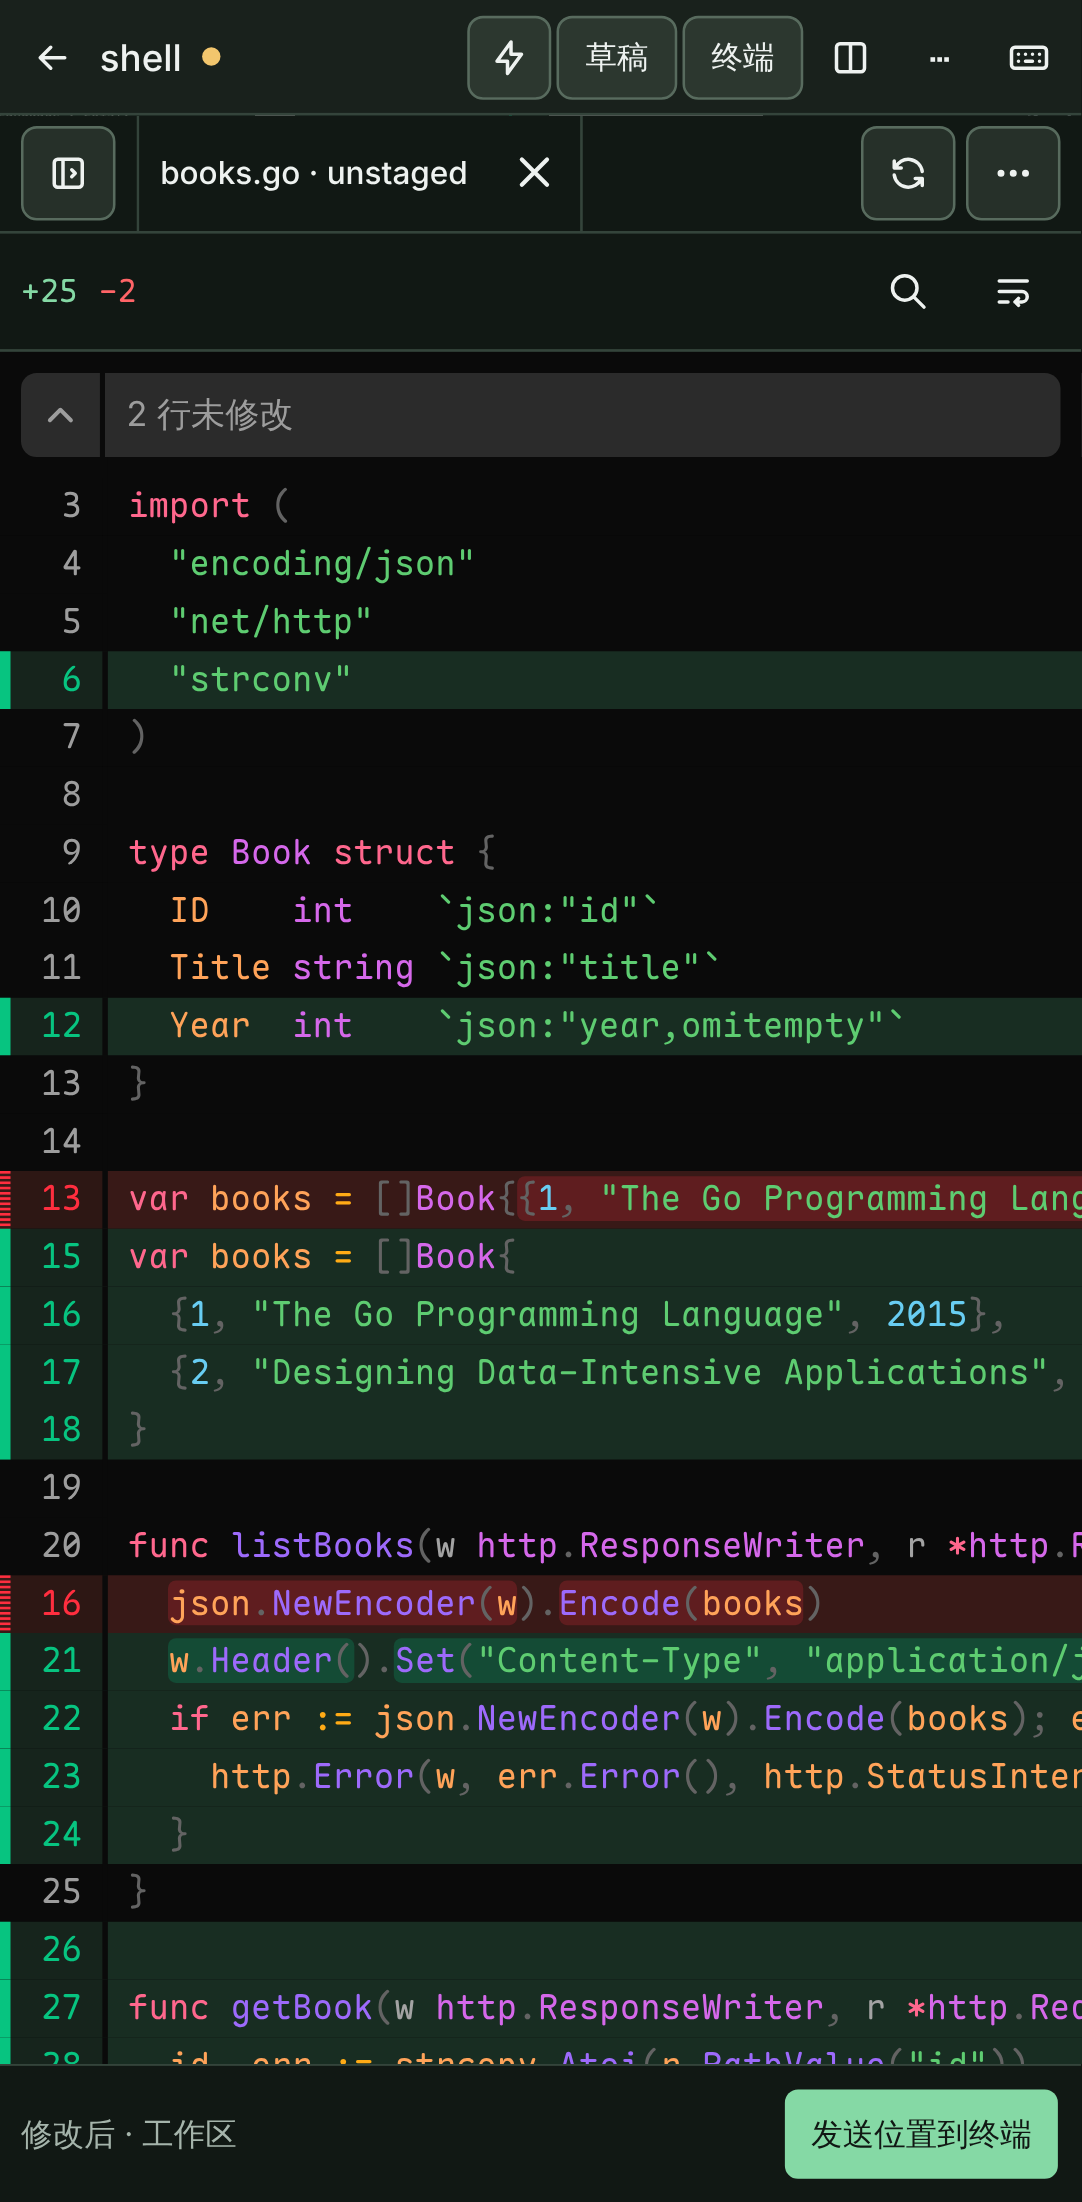
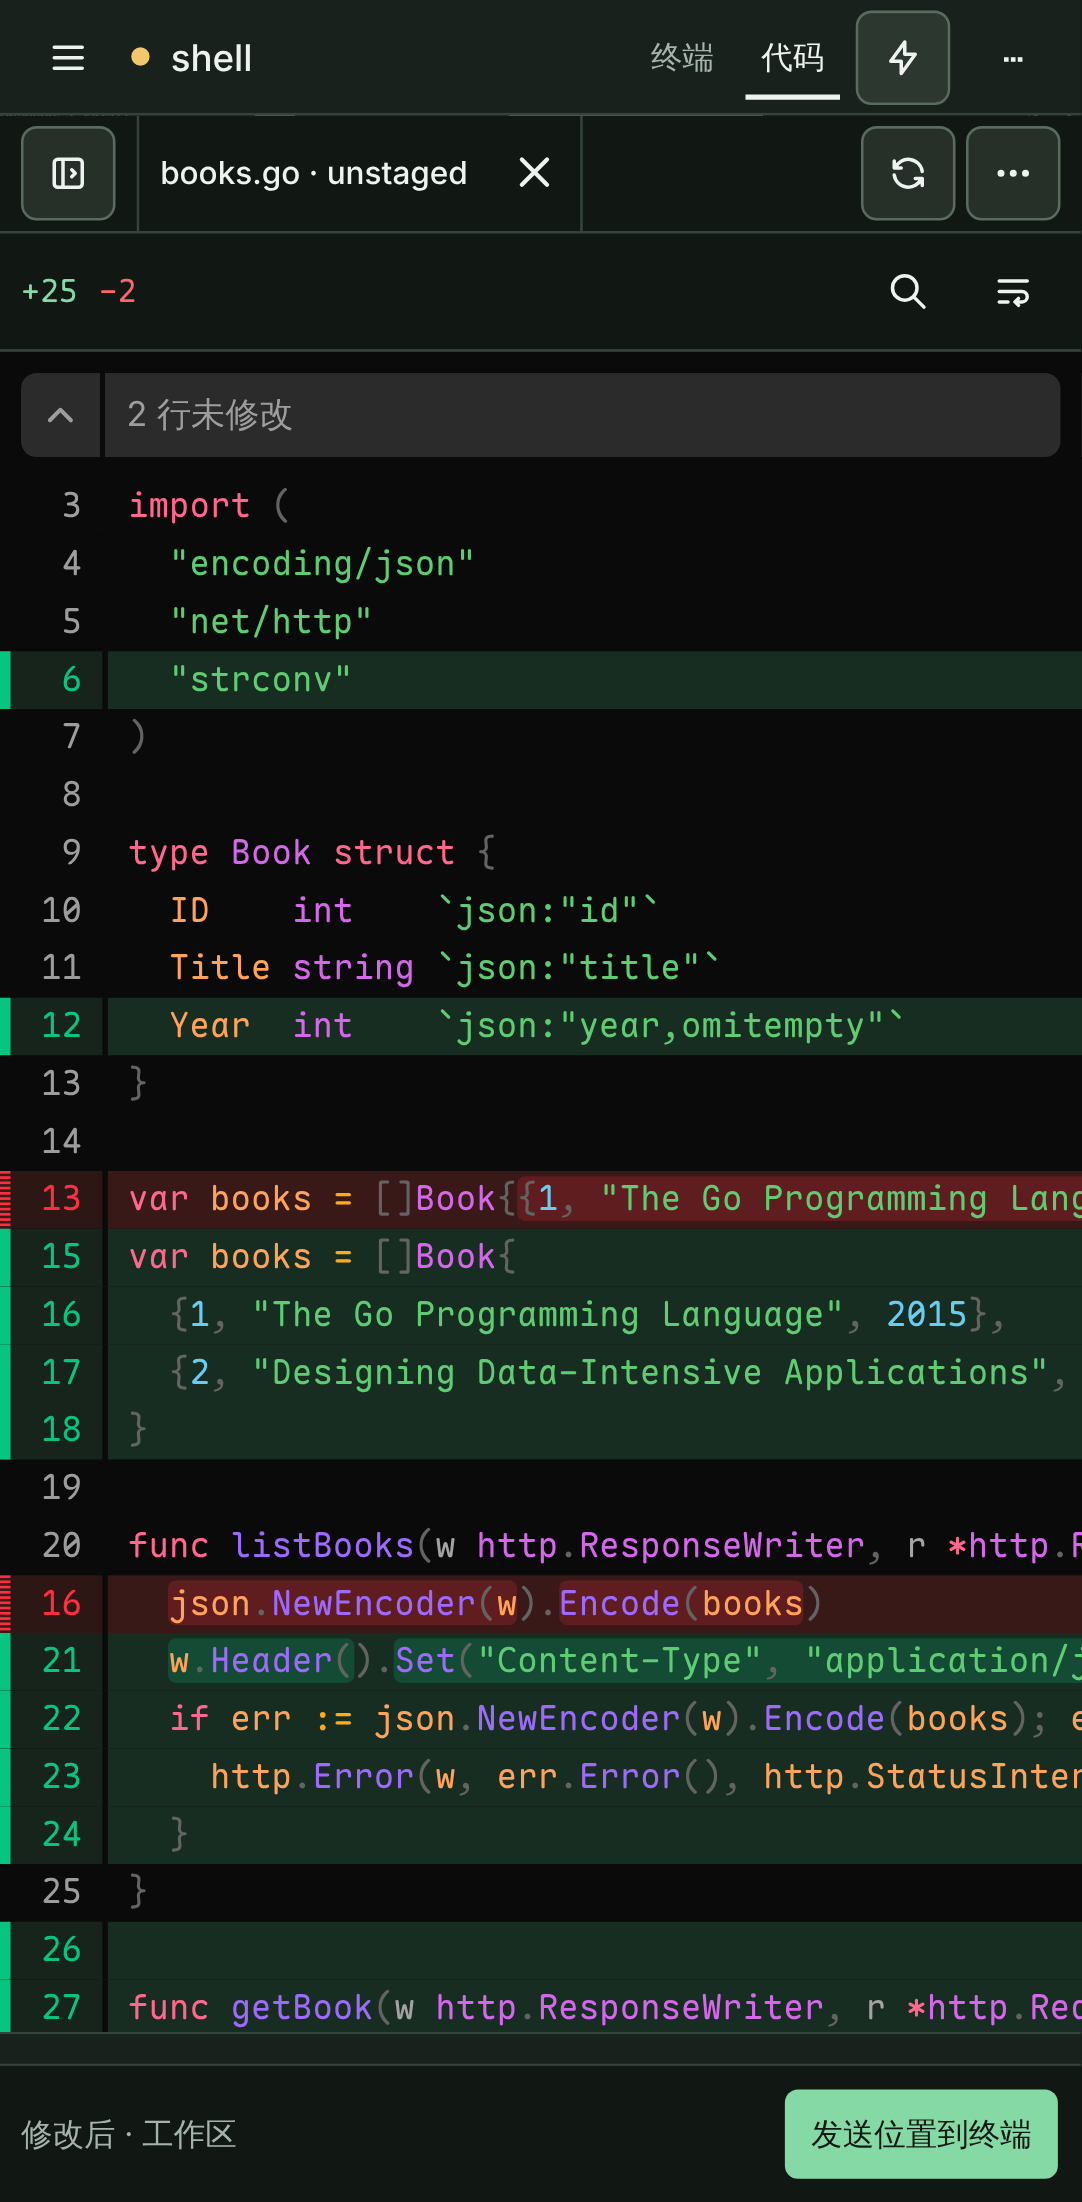
docs: refresh screenshots for the new app shell, add port forwarding and Quick Start shots
The screenshot script still looked for the old header "新建会话" button and
tab-style start side, so it no longer ran against the sidebar shell (#321).

- Follow the e2e helpers: open New Session from the main area, pick from
  the 运行 / 位置 lists, radio start side, session name under 高级.
- Phone code view uses the header 会话视图 tabs.
- New captures: desktop-port-forward.png (detected-port banner while a
  demo API listens on 8080) and desktop-quick-start.png (/new with a task
  typed, not sent); referenced from the usage docs.
- Regenerated desktop/mobile terminal and diff shots. The omp-based shots
  (overview, omp, chat) and hero.jpg are unchanged: they need the real omp
  binary to replay the recorded session.

User stories: US-L03 updated (two extra feature screenshots).

Claude-Session: https://claude.ai/code/session_01Ab6Q7HJ4deRxMTXXiY2F5g

diff --git a/docs/usage.md b/docs/usage.md
@@ -26,6 +26,9 @@
   - **快速开始**：在输入框上方选择仓库与基准分支（可搜索本地分支，按名称区分），下方选择 Agent（只列出开启了混合模式的配置）、配置项与权限模式（默认“全部接受”）。选中或切换 Agent 时会临时读取它的配置项（读取期间相关控件禁用，失败时沿用上次记住的清单）。
   - **附件**：与聊天视图相同，可通过上传按钮、粘贴或拖放添加附件（会话创建前暂存在服务端，创建后随首条消息发送）。
   - **进入已有聊天**：输入框上方只读显示该会话所在的仓库与 worktree 分支（进入时刷新）。
+
+  ![快速开始页：选择仓库与分支，写下任务后新建 worktree 并以聊天启动 agent](images/desktop-quick-start.png)
+
 - **工作台模式**：侧栏是「仓库 → 工作树 → 会话」导航树，主区域是会话总览。仓库行的「+」打开新建工作树弹窗。
 - **仓库初始化指令**：在首页工具栏的「仓库设置」按钮中填写（侧栏选中某个仓库，或只登记了一个仓库时显示）：
   - 指令是一段多行模板（最多 4000 字符），可用 `{{快捷指令名称}}` 引用设置里的快捷指令，用内置的 `{{user}}` 指定你的第一条消息放在哪里（不写则接在指令后面），用内置的 `{{dir}}` 代表新会话的临时文件夹路径。

diff --git a/docs/usage/port-forwarding.md b/docs/usage/port-forwarding.md
@@ -11,6 +11,8 @@
   - 同时有多个端口时最多显示两条，其余合并为“另有 N 个端口”，点击“查看全部”打开转发对话框。
 - **首页“端口转发”按钮**：顶栏“新建会话”右侧的按钮（有转发时显示数量）打开转发对话框，可以手动输入端口添加，也可以从“检测到的端口”中一键转发。
 
+![终端上方的端口检测提示：检测到端口 8080 正在监听，可转发并打开、转发或忽略](../images/desktop-port-forward.png)
+
 转发地址是 `/forward/{端口}/`，例如 `https://你的主机/forward/5173/`。从对话框复制的链接可以在同一浏览器的新标签页直接打开：浏览器还没有转发凭据时，会先经过 `/forward-auth` 自动认证再回到原地址；没有登录 WebMux 的浏览器会先显示 Token 登录。
 
 转发只保存在服务端内存中：手动移除或服务重启后消失。它与会话无关，会话退出后转发仍然保留。

diff --git a/docs/user-stories/operations-and-tooling.md b/docs/user-stories/operations-and-tooling.md
@@ -178,6 +178,7 @@
   - Storybook 提供设计系统、工作区与溢出场景；
   - 浏览器检查布局与可达性；
   - 截图脚本运行真实后端；omp 对话默认从仓库内录制的会话回放，不调用模型，`WEBMUX_SCREENSHOTS_RECORD=1` 时真实录制并导出新会话；
+  - 截图脚本按当前侧栏外壳与新建会话弹窗操作，并额外生成端口转发提示（`desktop-port-forward.png`）与快速开始页（`desktop-quick-start.png`）两张功能截图；
   - `screenshots:hero` 由已生成的桌面与手机截图合成 README 主图，缺图时失败；
   - 可见 UI 的 PR 按项目要求附最终实现截图。
 - **US-L04 基线评测与多平台发布**：作为维护者，我希望可复现地测量核心能力并构建各平台产物，以便比较回归和交付版本。
